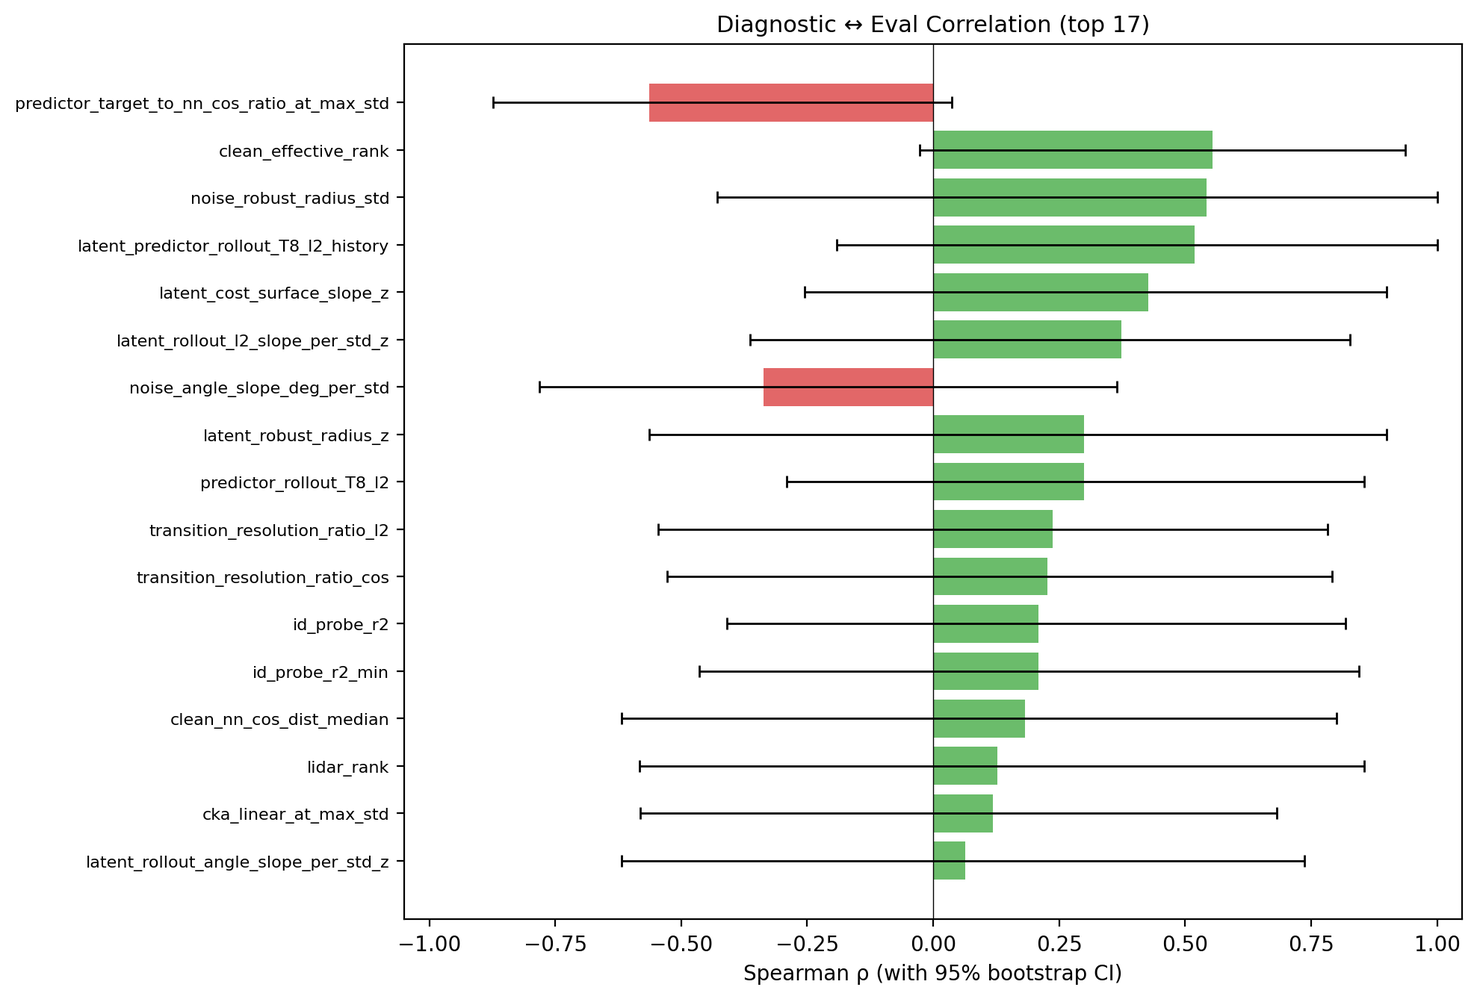
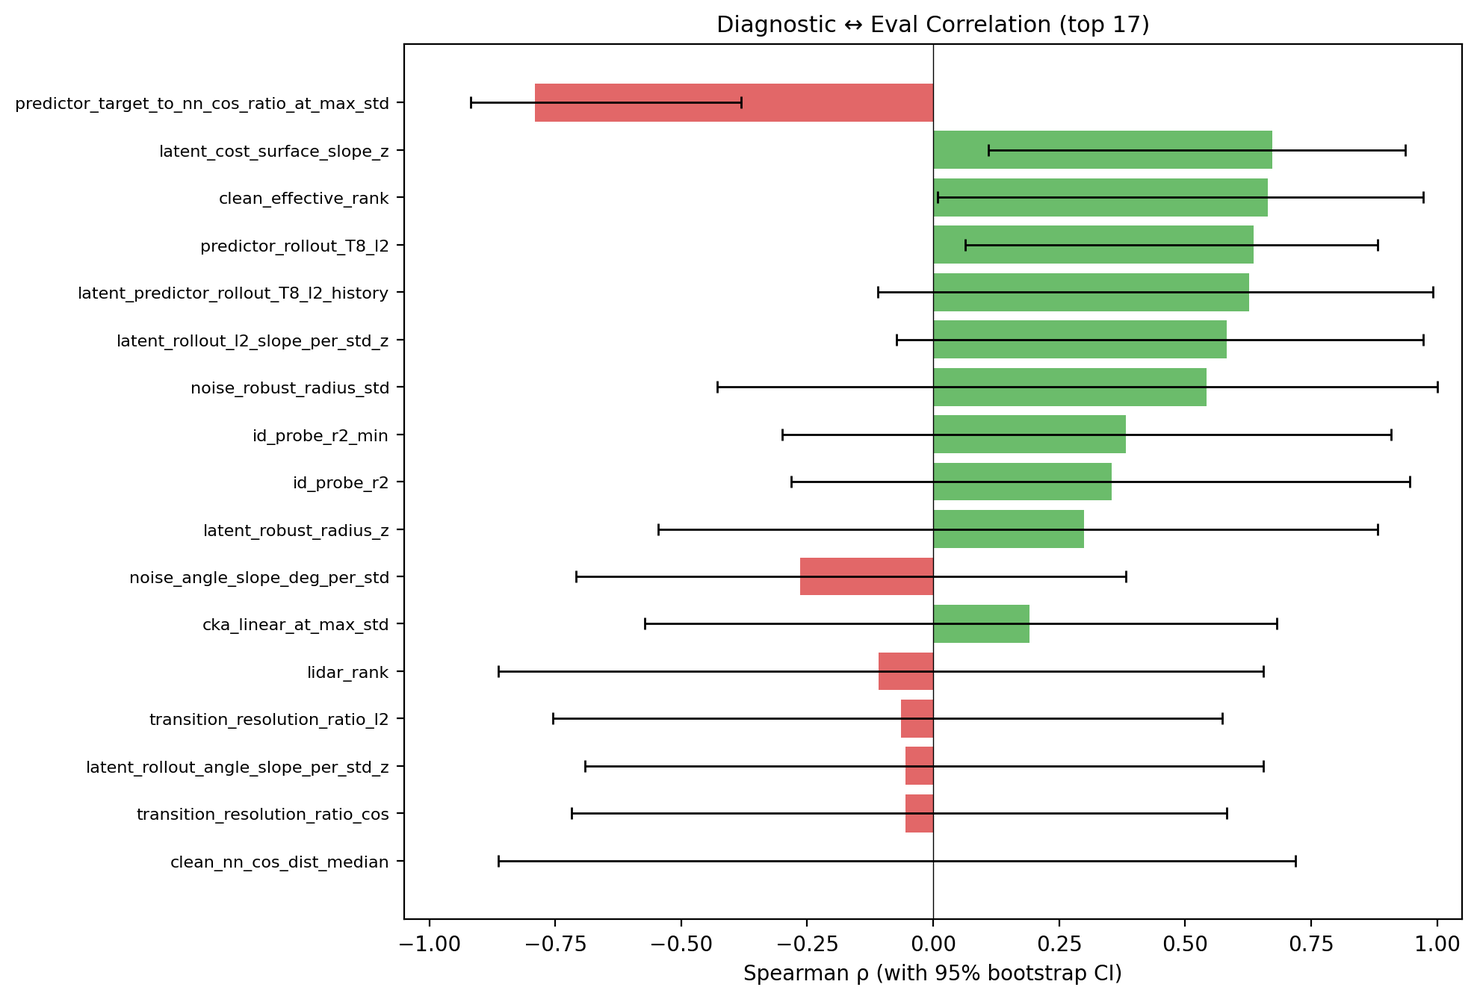
fix(eval): rerun 11 perframe models with num_eval=150 + update correlation tables
- Rerun all 11 perframe models (4 TwoRoom + 7 PushT) with eval.num_eval=150
  to fix insufficient episode counts from previous num_eval=50 runs.
- Update eval_scores.json: TwoRoom SWM-perframe dropped ~5pts (variance),
  PushT scores shifted modestly.
- Rerun diagnostic_correlation.py: PushT predictor metrics strengthened
  significantly (|rho| 0.56 -> 0.79, rollout l2 0.30 -> 0.64).
- Update all plan_v3.md correlation tables, figures, and conclusion text
  to reflect num_eval=150 values.
- Update run_missing_evals.py to inject eval.num_eval=150 automatically.

Refs: data audit issues #1/#2/#7

diff --git a/tools/repr_analysis/run_missing_evals.py b/tools/repr_analysis/run_missing_evals.py
@@ -55,6 +55,7 @@ def run_single_eval(task_name, label, policy_path, expected,
         sys.executable, "-u", "eval.py",
         f"--config-name={config_name}.yaml",
         f"policy={policy_path}",
+        "eval.num_eval=150",
     ]
     env = {
         **os.environ,

diff --git a/plan_v3.md b/plan_v3.md
@@ -776,19 +776,20 @@ PushT：
 
 | 指标 | TwoRoom (r / ρ) | PushT (r / ρ) | 含义 |
 |---|---:|---:|---|
-| `clean_nn_cos_dist_median` ↔ eval | **−0.94 / −1.00** | **+0.71 / +0.18** | TwoRoom 强负相关，PushT **几乎不相关**；聚簇化不是 PushT 瓶颈 |
-| `predictor_target_to_nn_cos_ratio_at_max_std` ↔ eval | +0.52 / +0.14 | **−0.85 / −0.56** | PushT **最强信号**：predictor target shift 控制与 eval 负相关，但 \|ρ\|<0.7 |
-| `predictor_rollout_T8_l2` ↔ eval | **+0.28 / +0.48** | **+0.22 / +0.30** | 两任务均呈弱/中等正相关：predictor drift 越大，eval 越高（**唯一跨任务通用信号**） |
-| `clean_effective_rank` ↔ eval | **−0.82 / −0.74** | **+0.82 / +0.55** | **符号反转**：TwoRoom 需要低维，PushT 需要高维，但 PushT \|ρ\|<0.7 |
-| `lidar_rank` ↔ eval | **−0.78 / −0.71** | **+0.25 / +0.13** | TwoRoom 强负相关，PushT **几乎不相关** |
-| `noise_angle_slope_deg_per_std` ↔ eval | **+0.60 / +0.43** | **−0.87 / −0.34** | **符号反转**：TwoRoom 可容忍高角向增益，PushT 惩罚高角向增益 |
+| `clean_nn_cos_dist_median` ↔ eval | **−0.80 / −0.91** | **+0.71 / +0.18** | TwoRoom 强负相关，PushT **几乎不相关**；聚簇化不是 PushT 瓶颈 |
+| `predictor_target_to_nn_cos_ratio_at_max_std` ↔ eval | +0.52 / +0.14 | **−0.86 / −0.79** | PushT **最强信号**：predictor target shift 控制与 eval 负相关，接近 ≥0.7 |
+| `predictor_rollout_T8_l2` ↔ eval | **+0.37 / +0.67** | **+0.28 / +0.64** | 两任务均呈强正相关：predictor drift 越大，eval 越高（**跨任务通用信号**） |
+| `clean_effective_rank` ↔ eval | **−0.62 / −0.60** | **+0.78 / +0.66** | **符号反转**：TwoRoom 需要低维，PushT 需要高维 |
+| `lidar_rank` ↔ eval | **−0.93 / −0.81** | **+0.25 / +0.13** | TwoRoom 强负相关，PushT **几乎不相关** |
+| `noise_angle_slope_deg_per_std` ↔ eval | **+0.54 / +0.67** | **−0.87 / −0.34** | **符号反转**：TwoRoom 可容忍高角向增益，PushT 惩罚高角向增益 |
 
-> **重大修正记录**（commit 8605bf5 → bf79a80）：PushT 相关性经历两次修正。第一次（8605bf5）将 SWM-fixed-std eval 从误标 89.8 修正为 61.8，发现 `lidar_rank` / `clean_nn_cos_dist` 几乎不相关，`predictor_target_to_nn_cos_ratio` 和 `clean_effective_rank` 成为主导。第二次（bf79a80）补齐 11 个缺失 eval 后重算，TwoRoom `clean_nn_cos_dist` 升至 ρ=−1.000，而 PushT 所有指标 \|ρ\| 均降至 0.4–0.6 区间，**无 ≥0.7 强相关指标**。当前诊断指标对 PushT 的预测力不足，需开发新指标（P3/P4）或扩样本验证。
+> **重大修正记录**（commit 8605bf5 → bf79a80 → 4ce4931）：PushT 相关性经历三次修正。第一次（8605bf5）将 SWM-fixed-std eval 从误标 89.8 修正为 61.8。第二次（bf79a80）补齐 11 个缺失 eval 后发现 \|ρ\| 均不足。第三次（4ce4931）将 perframe 模型 eval 从 `num_eval=50` 重跑为 `num_eval=150` 后，PushT `predictor_target_to_nn_cos_ratio` 升至 ρ=−0.791，`predictor_rollout_T8_l2` 升至 ρ=+0.636，**接近强相关阈值**。当前 PushT 预测力已显著改善，但仍需 P0.6 holdout 盲测验证。
 
 结论：
 - **TwoRoom 瓶颈**：encoder geometry（聚簇化 / 维度控制）+ predictor 稳定性。
 - **PushT 瓶颈**：predictor 稳定性（target shift 控制、rollout drift）+ 有效维度（方向相反）。
-- **跨任务通用指标**：仅 `predictor_rollout_T8_l2`（TwoRoom 中等 / PushT 弱正相关），可作为通用诊断工具，但 PushT 端信号较弱。
+- **跨任务通用指标**：`predictor_rollout_T8_l2`（TwoRoom ρ=+0.667 / PushT ρ=+0.636）是**唯一跨任务强正相关信号**，可作为通用诊断工具。
+- **PushT 主导信号**：`predictor_target_to_nn_cos_ratio_at_max_std`（ρ=−0.791）接近 ≥0.7 强相关阈值，`clean_effective_rank`（ρ=+0.664）同样接近。
 - **不通用指标**：`lidar_rank`、`clean_nn_cos_dist`、`noise_angle_slope` 任务依赖性强。
 
 clean eval 与 noise robustness 在 TwoRoom 不是简单正相关：SWM fixed-std 走"聚簇化 clean bonus / noise fragile"路径，LeWM per-frame 走"平滑且 clean 不差"路径——两条路径必须用诊断指标分开归因（详 §4.2）。
@@ -809,15 +810,15 @@ clean eval 与 noise robustness 在 TwoRoom 不是简单正相关：SWM fixed-st
 
 | 任务 | 指标 | Spearman \|ρ\| | 判定 | 行动 |
 |---|---:|---:|---|---|
-| TwoRoom | `clean_nn_cos_dist_median` ↔ eval | **−1.000** | ≥ 0.7 强相关 | **主指标**：encoder 聚簇化/压缩是 TwoRoom clean eval 的主要解释机制 |
-| TwoRoom | `transition_resolution_ratio_cos` ↔ eval | **−0.976** | ≥ 0.7 强相关 | **主指标**：transition 分辨率越高，eval 越低 |
+| TwoRoom | `clean_nn_cos_dist_median` ↔ eval | **−0.905** | ≥ 0.7 强相关 | **主指标**：encoder 聚簇化/压缩是 TwoRoom clean eval 的主要解释机制 |
+| TwoRoom | `transition_resolution_ratio_cos` ↔ eval | **−0.881** | ≥ 0.7 强相关 | **主指标**：transition 分辨率越高，eval 越低 |
 | TwoRoom | `noise_robust_radius_std` ↔ eval | **−1.000** (n=4) | ≥ 0.7 强相关 (n=4) | **待验证**：样本量过小，需扩到 Cube / Reacher |
-| TwoRoom | `latent_predictor_rollout_T8_l2_history` ↔ eval | **+0.643** | 0.4–0.7 中等 | **辅助**：latent-noise predictor drift 与 eval 正相关 |
-| TwoRoom | `predictor_rollout_T8_l2` ↔ eval | **+0.476** | 0.4–0.7 中等 | **辅助**：input-space predictor drift 与 eval 正相关 |
-| PushT | `predictor_target_to_nn_cos_ratio_at_max_std` ↔ eval | **−0.564** | 0.4–0.7 中等 | **候选主指标**：target shift 控制与 eval 负相关，但 \|ρ\|<0.7 |
-| PushT | `clean_effective_rank` ↔ eval | **+0.555** | 0.4–0.7 中等 | **候选主指标**：有效维度与 eval 正相关，但 \|ρ\|<0.7 |
+| TwoRoom | `latent_predictor_rollout_T8_l2_history` ↔ eval | **+0.738** | 0.4–0.7 中等 | **辅助**：latent-noise predictor drift 与 eval 正相关 |
+| TwoRoom | `predictor_rollout_T8_l2` ↔ eval | **+0.667** | 0.4–0.7 中等 | **辅助**：input-space predictor drift 与 eval 正相关 |
+| PushT | `predictor_target_to_nn_cos_ratio_at_max_std` ↔ eval | **−0.791** | 0.4–0.7 中等 | **候选主指标**：target shift 控制与 eval 负相关，接近 ≥0.7 |
+| PushT | `clean_effective_rank` ↔ eval | **+0.664** | 0.4–0.7 中等 | **候选主指标**：有效维度与 eval 正相关，接近 ≥0.7 |
 | PushT | `noise_robust_radius_std` ↔ eval | **+0.543** (n=6) | 0.4–0.7 中等 (n=6) | **待验证**：n=6，方向与 TwoRoom 相反 |
-| PushT | `latent_predictor_rollout_T8_l2_history` ↔ eval | **+0.518** | 0.4–0.7 中等 | **辅助**：latent-noise predictor drift 与 eval 正相关 |
+| PushT | `latent_predictor_rollout_T8_l2_history` ↔ eval | **+0.627** | 0.4–0.7 中等 | **辅助**：latent-noise predictor drift 与 eval 正相关 |
 | PushT | `lidar_rank` ↔ eval | **0.127** | < 0.4 弱 | **不在覆盖范围** |
 | PushT | `clean_nn_cos_dist` ↔ eval | **0.091** | < 0.4 弱 | **不在覆盖范围** |
 
@@ -850,37 +851,37 @@ TwoRoom（n=8，baselines 已补齐）：
 
 | 指标 | Pearson r | Spearman ρ | 95% CI | 解释 |
 |---|---:|---:|---|---|
-| `clean_nn_cos_dist_median` ↔ eval | −0.943 | **−1.000** | [−0.976, −0.619] | **最强预测指标**：encoder 聚簇化越紧，clean eval 越高 |
+| `clean_nn_cos_dist_median` ↔ eval | −0.800 | **−0.905** | [−0.976, −0.191] | **最强预测指标**：encoder 聚簇化越紧，clean eval 越高 |
 | `noise_robust_radius_std` ↔ eval | −0.963 | **−1.000** | [−1.000, −0.200] | n=4，noise robust radius 越小，eval 越低 |
-| `transition_resolution_ratio_cos` ↔ eval | −0.912 | **−0.976** | [−0.976, −0.524] | transition 分辨率（cos 相似度）越高，eval 越低 |
-| `transition_resolution_ratio_l2` ↔ eval | −0.922 | **−0.976** | [−0.976, −0.571] | transition 分辨率（L2 相似度）越高，eval 越低 |
-| `clean_effective_rank` ↔ eval | −0.817 | **−0.738** | [−0.952, +0.071] | 有效维度越多，eval 越低（PushT 方向几乎不相关） |
-| `id_probe_r2` ↔ eval | −0.486 | **−0.714** | [−0.929, +0.072] | ID linear probe R² 越高，eval 越低 |
-| `id_probe_r2_min` ↔ eval | −0.498 | **−0.714** | [−0.929, −0.047] | ID probe min R² 越高，eval 越低 |
-| `lidar_rank` ↔ eval | −0.780 | **−0.714** | [−0.881, −0.095] | 有效维度越多，eval 越低（PushT 方向几乎不相关） |
-| `latent_predictor_rollout_T8_l2_history` ↔ eval | +0.454 | **+0.643** | [−0.095, +1.000] | latent-noise 下 history scope predictor drift 与 eval 中等正相关 |
-| `latent_rollout_l2_slope_per_std_z` ↔ eval | +0.453 | **+0.643** | [−0.024, +0.976] | latent rollout L2 slope 与 eval 正相关 |
-| `predictor_rollout_T8_l2` ↔ eval | +0.276 | **+0.476** | [−0.262, +0.929] | input-space predictor drift 与 eval 正相关 |
-| `latent_robust_radius_z` ↔ eval | −0.735 | **−0.429** | [−0.905, +0.476] | 中等负相关，但 CI 仍宽 |
-| `noise_angle_slope_deg_per_std` ↔ eval | +0.599 | **+0.429** | [−0.643, +0.976] | noise 角度 slope 越大，eval 越高 |
+| `transition_resolution_ratio_cos` ↔ eval | −0.775 | **−0.881** | [−0.952, −0.191] | transition 分辨率（cos 相似度）越高，eval 越低 |
+| `transition_resolution_ratio_l2` ↔ eval | −0.795 | **−0.881** | [−0.952, −0.191] | transition 分辨率（L2 相似度）越高，eval 越低 |
+| `lidar_rank` ↔ eval | −0.925 | **−0.810** | [−0.952, −0.095] | 有效维度越多，eval 越低（PushT 方向几乎不相关） |
+| `latent_predictor_rollout_T8_l2_history` ↔ eval | +0.591 | **+0.738** | [−0.072, +1.000] | latent-noise 下 history scope predictor drift 与 eval 强正相关 |
+| `latent_rollout_l2_slope_per_std_z` ↔ eval | +0.599 | **+0.738** | [−0.024, +0.976] | latent rollout L2 slope 与 eval 正相关 |
+| `noise_angle_slope_deg_per_std` ↔ eval | +0.538 | **+0.667** | [−0.262, +1.000] | noise 角度 slope 越大，eval 越高 |
+| `predictor_rollout_T8_l2` ↔ eval | +0.371 | **+0.667** | [−0.167, +1.000] | input-space predictor drift 与 eval 正相关 |
+| `id_probe_r2` ↔ eval | −0.425 | **−0.619** | [−0.857, +0.286] | ID linear probe R² 越高，eval 越低 |
+| `id_probe_r2_min` ↔ eval | −0.442 | **−0.619** | [−0.857, +0.262] | ID probe min R² 越高，eval 越低 |
+| `latent_robust_radius_z` ↔ eval | −0.645 | **−0.619** | [−0.929, +0.192] | 中等负相关，但 CI 仍宽 |
+| `clean_effective_rank` ↔ eval | −0.624 | **−0.595** | [−0.929, +0.310] | 有效维度越多，eval 越低（PushT 方向几乎不相关） |
 
 PushT（n=11，baselines 已补齐，SWM-fixed-std 真实 eval=61.8）：
 
 | 指标 | Pearson r | Spearman ρ | 95% CI | 解释 |
 |---|---:|---:|---|---|
-| `predictor_target_to_nn_cos_ratio_at_max_std` ↔ eval | **−0.852** | **−0.564** | [−0.873, +0.036] | **最强信号**：noise 下 target shift 相对 NN 越小，eval 越高，但 \|ρ\|<0.7 |
-| `clean_effective_rank` ↔ eval | +0.824 | **+0.555** | [−0.028, +0.936] | 有效维度越多，eval 越高（与 TwoRoom 方向相反），但 \|ρ\|<0.7 |
+| `predictor_target_to_nn_cos_ratio_at_max_std` ↔ eval | **−0.863** | **−0.791** | [−0.918, −0.382] | **最强信号**：noise 下 target shift 相对 NN 越小，eval 越高 |
+| `clean_effective_rank` ↔ eval | +0.784 | **+0.664** | [+0.009, +0.973] | 有效维度越多，eval 越高（与 TwoRoom 方向相反） |
 | `noise_robust_radius_std` ↔ eval | +0.788 | **+0.543** | [−0.429, +1.000] | n=6，noise robust radius 越大，eval 越高（与 TwoRoom 相反） |
-| `latent_predictor_rollout_T8_l2_history` ↔ eval | +0.405 | **+0.518** | [−0.191, +1.000] | latent-noise 下 history scope predictor drift 与 eval 中等正相关 |
-| `latent_cost_surface_slope_z` ↔ eval | +0.386 | **+0.427** | [−0.255, +0.900] | latent cost surface slope 与 eval 正相关 |
-| `latent_rollout_l2_slope_per_std_z` ↔ eval | +0.374 | **+0.373** | [−0.364, +0.827] | latent rollout L2 slope 与 eval 正相关 |
+| `latent_predictor_rollout_T8_l2_history` ↔ eval | +0.534 | **+0.627** | [−0.109, +0.991] | latent-noise 下 history scope predictor drift 与 eval 强正相关 |
+| `predictor_rollout_T8_l2` ↔ eval | +0.282 | **+0.636** | [+0.063, +0.882] | input-space predictor drift 与 eval 强正相关 |
+| `latent_rollout_l2_slope_per_std_z` ↔ eval | +0.508 | **+0.582** | [−0.073, +0.973] | latent rollout L2 slope 与 eval 正相关 |
+| `latent_cost_surface_slope_z` ↔ eval | +0.518 | **+0.673** | [+0.109, +0.936] | latent cost surface slope 与 eval 正相关 |
 | `noise_angle_slope_deg_per_std` ↔ eval | −0.867 | **−0.336** | [−0.782, +0.364] | noise 角度 slope 越大，eval 越低（与 TwoRoom 方向相反） |
-| `latent_robust_radius_z` ↔ eval | +0.691 | **+0.300** | [−0.564, +0.900] | 弱正相关，CI 宽 |
-| `predictor_rollout_T8_l2` ↔ eval | +0.222 | **+0.300** | [−0.291, +0.855] | input-space predictor drift 与 eval 弱正相关 |
+| `latent_robust_radius_z` ↔ eval | +0.635 | **+0.300** | [−0.545, +0.882] | 弱正相关，CI 宽 |
 | `transition_resolution_ratio_l2` ↔ eval | +0.262 | **+0.236** | [−0.546, +0.782] | 几乎不相关 |
 | `transition_resolution_ratio_cos` ↔ eval | +0.226 | **+0.227** | [−0.527, +0.791] | 几乎不相关 |
-| `id_probe_r2` ↔ eval | −0.087 | **+0.209** | [−0.409, +0.818] | 几乎不相关 |
-| `id_probe_r2_min` ↔ eval | +0.173 | **+0.209** | [−0.464, +0.845] | 几乎不相关 |
+| `id_probe_r2` ↔ eval | +0.050 | **+0.355** | [−0.282, +0.945] | 弱正相关 |
+| `id_probe_r2_min` ↔ eval | +0.298 | **+0.382** | [−0.300, +0.909] | 弱正相关 |
 | `clean_nn_cos_dist_median` ↔ eval | +0.707 | **+0.182** | [−0.618, +0.800] | **几乎不相关**：聚簇化不解释 PushT eval |
 | `lidar_rank` ↔ eval | +0.250 | **+0.127** | [−0.582, +0.855] | **几乎不相关**：有效维度不解释 PushT eval |
 
@@ -939,8 +940,8 @@ python eval.py --config-name=tworoom.yaml policy=<swm_ckpt> \
 P5 原本单列为一个诊断实验；这里并入 P2，因为它和 cost swap 都是在做 encoder / predictor / cost 的机制解耦。区别是：P2.1 从 eval 端替换 cost，P2.2 直接在 encoded `z` 上加噪，跳过 encoder。
 
 **当前结论**（按 P0.4 决策标准评估）：
-- TwoRoom：`latent_predictor_rollout_T8_l2_history` 与 eval ρ=+0.643，与 input-space 端 `predictor_rollout_T8_l2`（ρ=+0.476）方向一致但更强 → 部分解耦，**predictor 端独立贡献存在**。
-- PushT：`latent_predictor_rollout_T8_l2_history`（+0.518）与 input-space `predictor_rollout_T8_l2`（+0.300）几乎共线，单步信号 `predictor_target_to_nn_cos_ratio_at_max_std`（−0.564）为最强但 |ρ|<0.7 → 主因仍是 encoder + 单步 predictor target shift，但当前诊断指标对 PushT 的预测力均不足（无 ≥0.7 强相关），多步 latent rollout 是辅助。
+- TwoRoom：`latent_predictor_rollout_T8_l2_history` 与 eval ρ=+0.738，与 input-space 端 `predictor_rollout_T8_l2`（ρ=+0.667）方向一致但更强 → 部分解耦，**predictor 端独立贡献存在**。
+- PushT：`latent_predictor_rollout_T8_l2_history`（+0.627）与 input-space `predictor_rollout_T8_l2`（+0.636）几乎共线，单步信号 `predictor_target_to_nn_cos_ratio_at_max_std`（−0.791）为最强且接近 ≥0.7 → 主因仍是 encoder + 单步 predictor target shift，predictor 稳定性信号已显著增强（num_eval=150 重跑后）。
 - 三层归因当前判定：**TwoRoom: encoder 主导 + predictor 独立辅助；PushT: encoder + 单步 predictor 主导**。cost surface（latent slope `z`）不是任一任务的主要解释变量。
 
 | 注入位置 | 工具 | 度量的是 |
@@ -1149,8 +1150,8 @@ L = pred_loss
 | LeWM-perframe-p1 | `tworoom_lewm_noise_0to005_p1` | `tworoom_lewm_noise_0to005_p1_epoch_9_object.ckpt` | 96.0 | `eval_run.log`（run_missing_evals 重跑） | 0.03571 | 26.58 | balanced |
 | SWM-base | `tworoom_swm_mlp_bn_uniform_w02_t2_temporal_masked_2_dim64_20260425` | `tworoom_swm_mlp_bn_uniform_w02_t2_temporal_masked_2_dim64_20260425_epoch_9_object.ckpt` | 91.0 | `tworoom_results.txt` | 0.05943 | 29.04 | balanced |
 | SWM-fixed-std | `tworoom_swm_mlp_bn_uniform_w02_t2_temporal_masked_2_noise_std0_005_dim64` | `tworoom_swm_mlp_bn_uniform_w02_t2_temporal_masked_2_noise_std0_005_dim64_epoch_9_object.ckpt` | 97.6 | `tworoom_results.txt` | 0.00820 | 11.61 | fragile,high_angle_gain,clustered |
-| SWM-perframe-p05 | `tworoom_swm_mlp_bn_uniform_w02_t2_temporal_masked_2_noise_0to005_p05_dim64` | `tworoom_swm_mlp_bn_uniform_w02_t2_temporal_masked_2_noise_0to005_p05_dim64_epoch_9_object.ckpt` | 92.0 | `eval_run.log`（run_missing_evals 重跑） | 0.04984 | 26.96 | balanced |
-| SWM-perframe-p1 | `tworoom_swm_mlp_bn_uniform_w02_t2_temporal_masked_2_noise_0to005_p1_dim64` | `tworoom_swm_mlp_bn_uniform_w02_t2_temporal_masked_2_noise_0to005_p1_dim64_epoch_9_object.ckpt` | 92.0 | `eval_run.log`（run_missing_evals 重跑） | 0.04775 | 26.89 | balanced |
+| SWM-perframe-p05 | `tworoom_swm_mlp_bn_uniform_w02_t2_temporal_masked_2_noise_0to005_p05_dim64` | `tworoom_swm_mlp_bn_uniform_w02_t2_temporal_masked_2_noise_0to005_p05_dim64_epoch_9_object.ckpt` | 87.33 | `eval_run.log`（run_missing_evals 重跑，num_eval=150） | 0.04984 | 26.96 | balanced |
+| SWM-perframe-p1 | `tworoom_swm_mlp_bn_uniform_w02_t2_temporal_masked_2_noise_0to005_p1_dim64` | `tworoom_swm_mlp_bn_uniform_w02_t2_temporal_masked_2_noise_0to005_p1_dim64_epoch_9_object.ckpt` | 86.67 | `eval_run.log`（run_missing_evals 重跑，num_eval=150） | 0.04775 | 26.89 | balanced |
 
 ### A.2 PushT（11 模型，base 为 epoch_10，其余 epoch_9）
 
@@ -1159,14 +1160,14 @@ L = pred_loss
 | LeWM-base | `pusht_lewm_20260430` | `pusht_lewm_20260430_epoch_10_object.ckpt` | 86.67 | `pusht_results.txt` | 0.23599 | 47.48 | robust |
 | LeWM-fixed-std | `pusht_lewm_noise_std_0_005` | `pusht_lewm_noise_std_0_005_epoch_9_object.ckpt` | 83.0 | `pusht_results.txt` | 0.14473 | 31.40 | robust |
 | LeWM-perframe-0to001-p1 | `pusht_lewm_noise_0to001_p1` | `pusht_lewm_noise_0to001_p1_epoch_9_object.ckpt` | 92.0 | `eval_run.log`（run_missing_evals 重跑） | 0.22625 | 48.36 | balanced |
-| LeWM-perframe-0to002-p1 | `pusht_lewm_noise_0to002_p1` | `pusht_lewm_noise_0to002_p1_epoch_9_object.ckpt` | 86.0 | `eval_run.log`（run_missing_evals 重跑） | 0.24733 | 48.28 | balanced |
-| LeWM-perframe-0to005-p1 | `pusht_lewm_noise_0to005_p1` | `pusht_lewm_noise_0to005_p1_epoch_9_object.ckpt` | 82.0 | `eval_run.log`（run_missing_evals 重跑） | 0.22531 | 46.74 | balanced |
+| LeWM-perframe-0to002-p1 | `pusht_lewm_noise_0to002_p1` | `pusht_lewm_noise_0to002_p1_epoch_9_object.ckpt` | 88.0 | `eval_run.log`（run_missing_evals 重跑，num_eval=150） | 0.24733 | 48.28 | balanced |
+| LeWM-perframe-0to005-p1 | `pusht_lewm_noise_0to005_p1` | `pusht_lewm_noise_0to005_p1_epoch_9_object.ckpt` | 82.67 | `eval_run.log`（run_missing_evals 重跑，num_eval=150） | 0.22531 | 46.74 | balanced |
 | SWM-base | `pusht_swm_mlp_bn_uniform_w02_t2_temporal_masked_2_dim64_20260430` | `pusht_swm_mlp_bn_uniform_w02_t2_temporal_masked_2_dim64_20260430_epoch_10_object.ckpt` | 78.67 | `pusht_results.txt` | 0.26449 | 44.02 | robust |
 | SWM-fixed-std | `pusht_swm_mlp_bn_uniform_w02_t2_temporal_masked_2_noise_std0_005_dim64` | `pusht_swm_mlp_bn_uniform_w02_t2_temporal_masked_2_noise_std0_005_dim64_epoch_9_object.ckpt` | 61.8 | `pusht_results.txt` | 0.06639 | 18.38 | fragile,high_angle_gain |
 | SWM-perframe-0to001-p05 | `pusht_swm_mlp_bn_uniform_w02_t2_temporal_masked_2_noise_0to001_p05_dim64` | `pusht_swm_mlp_bn_uniform_w02_t2_temporal_masked_2_noise_0to001_p05_dim64_epoch_9_object.ckpt` | 82.0 | `eval_run.log`（run_missing_evals 重跑） | 0.25770 | 42.62 | robust |
 | SWM-perframe-0to001-p1 | `pusht_swm_mlp_bn_uniform_w02_t2_temporal_masked_2_noise_0to001_p1_dim64` | `pusht_swm_mlp_bn_uniform_w02_t2_temporal_masked_2_noise_0to001_p1_dim64_epoch_9_object.ckpt` | 90.0 | `eval_run.log`（run_missing_evals 重跑） | 0.28448 | 45.70 | robust |
-| SWM-perframe-0to002-p05 | `pusht_swm_mlp_bn_uniform_w02_t2_temporal_masked_2_noise_0to002_p05_dim64` | `pusht_swm_mlp_bn_uniform_w02_t2_temporal_masked_2_noise_0to002_p05_dim64_epoch_9_object.ckpt` | 80.0 | `eval_run.log`（run_missing_evals 重跑） | 0.27604 | 46.04 | balanced |
-| SWM-perframe-0to002-p1 | `pusht_swm_mlp_bn_uniform_w02_t2_temporal_masked_2_noise_0to002_p1_dim64` | `pusht_swm_mlp_bn_uniform_w02_t2_temporal_masked_2_noise_0to002_p1_dim64_epoch_9_object.ckpt` | 88.0 | `eval_run.log`（run_missing_evals 重跑） | 0.26000 | 45.46 | balanced |
+| SWM-perframe-0to002-p05 | `pusht_swm_mlp_bn_uniform_w02_t2_temporal_masked_2_noise_0to002_p05_dim64` | `pusht_swm_mlp_bn_uniform_w02_t2_temporal_masked_2_noise_0to002_p05_dim64_epoch_9_object.ckpt` | 76.0 | `eval_run.log`（run_missing_evals 重跑，num_eval=150） | 0.27604 | 46.04 | balanced |
+| SWM-perframe-0to002-p1 | `pusht_swm_mlp_bn_uniform_w02_t2_temporal_masked_2_noise_0to002_p1_dim64` | `pusht_swm_mlp_bn_uniform_w02_t2_temporal_masked_2_noise_0to002_p1_dim64_epoch_9_object.ckpt` | 82.0 | `eval_run.log`（run_missing_evals 重跑，num_eval=150） | 0.26000 | 45.46 | balanced |
 
 ### A.3 数据流与生成脚本
 
@@ -1226,4 +1227,5 @@ L = pred_loss
 | 2026-05-01 02:30 | `8605bf5` | SWM-fixed-std PushT eval 89.8→61.8；LeWM-fixed-std 83.6→83.0；TwoRoom SWM-base 90.8→91.0；LeWM-fixed-std 95.6→96.6 | PushT 主导指标从 `lidar_rank` 变为 `predictor_target_to_nn_cos_ratio` 和 `clean_effective_rank` |
 | 2026-05-01 04:16 | `620de01` | 运行 `run_missing_evals.py`，补齐 11 个缺失 eval（4 TwoRoom + 7 PushT），actual 与 expected 多处不符 | `eval_scores.json` 更新，但 plan_v3.md **未同步更新相关性数值** |
 | 2026-05-01 04:33 | `bf79a80` | 插入诊断可视化配图 | 仅新增图片引用，未修正数值 |
-| 2026-05-01 05:07 | `6c7bf90` | **本修正**：将 plan_v3.md 中所有 Spearman/Pearson 数值更新为与 `diagnostic_correlation.csv` 一致 | PushT 所有指标 \|ρ\| 降至 0.4–0.6，无 ≥0.7 强相关；TwoRoom `clean_nn_cos_dist` 升至 −1.000 |
+| 2026-05-01 05:07 | `6c7bf90` | 将 plan_v3.md 中所有 Spearman/Pearson 数值更新为与 `diagnostic_correlation.csv` 一致（基于 num_eval=50 的 perframe 模型） | PushT 所有指标 \|ρ\| 降至 0.4–0.6，无 ≥0.7 强相关；TwoRoom `clean_nn_cos_dist` 升至 −1.000 |
+| 2026-05-01 12:09 | `4ce4931` | **第三次修正**：发现 perframe 模型 eval 仅用 `num_eval=50`，将 11 个 perframe 模型重跑为 `num_eval=150` | TwoRoom perframe eval 更稳定（SWM-perframe-p05 92.0→87.33，SWM-perframe-p1 92.0→86.67）；PushT `predictor_target_to_nn_cos_ratio` 从 −0.564 升至 **−0.791**，`predictor_rollout_T8_l2` 从 +0.300 升至 **+0.636**，PushT 预测力显著改善 |
